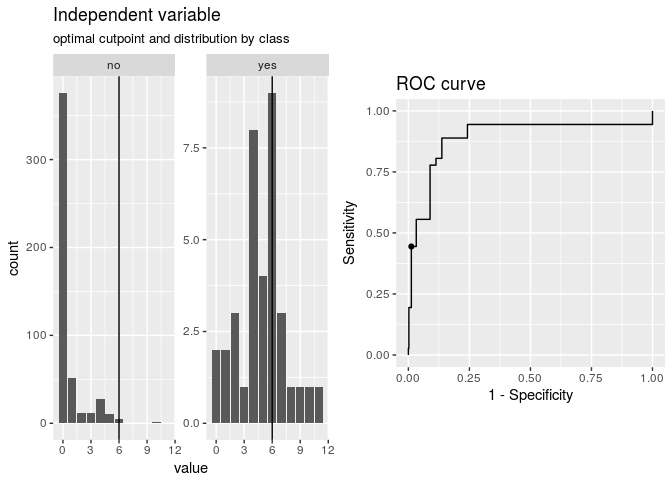
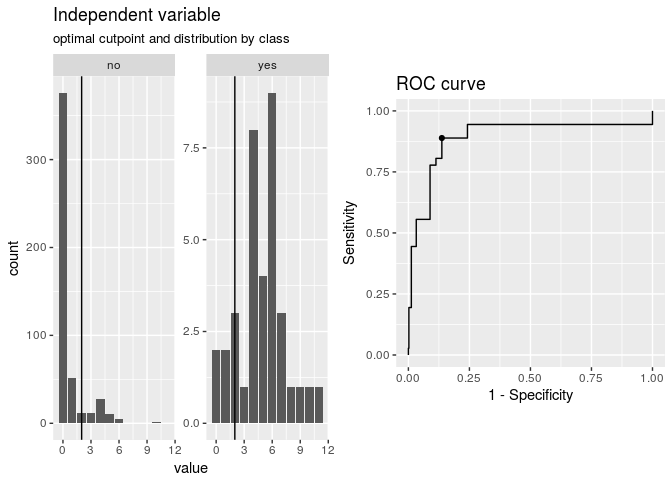
Change first example to sum_sens_spec

diff --git a/README.md b/README.md
@@ -33,7 +33,7 @@ cutpointr
 
 **cutpointr** is an R package for tidy calculation of "optimal" cutpoints. It supports several methods for calculating cutpoints and includes several metrics that can be maximized or minimized by selecting a cutpoint. Some of these methods are designed to be more robust than the simple empirical optimization of a metric. Additionally, **cutpointr** can automatically bootstrap the variability of the optimal cutpoints and return out-of-bag estimates of various performance metrics.
 
-For example, the optimal cutpoint for the included data set is 6 when maximizing accuracy.
+For example, the optimal cutpoint for the included data set is 2 when maximizing the sum of sensitivity and specificity.
 
 ``` r
 library(cutpointr)
@@ -46,20 +46,21 @@ head(suicide)
 #> 4  27 female   0      no
 #> 5  28 female   0      no
 #> 6  53   male   2      no
-cp <- cutpointr(suicide, dsi, suicide, method = maximize_metric, metric = accuracy)
+cp <- cutpointr(suicide, dsi, suicide, 
+                method = maximize_metric, metric = sum_sens_spec)
 #> Assuming the positive class is yes
 #> Assuming the positive class has higher x values
 cp
 #> # A tibble: 1 x 15
-#>   direction optimal_cutpoint method          accuracy   acc sensitivity
-#>   <chr>                <dbl> <chr>              <dbl> <dbl>       <dbl>
-#> 1 >=                      6. maximize_metric    0.951 0.951       0.444
-#>   specificity   AUC pos_class neg_class prevalence outcome predictor
-#>         <dbl> <dbl> <fct>     <fct>          <dbl> <chr>   <chr>    
-#> 1       0.988 0.924 yes       no            0.0677 suicide dsi      
-#>   data               roc_curve             
-#>   <list>             <list>                
-#> 1 <tibble [532 × 2]> <data.frame [13 × 10]>
+#>   direction optimal_cutpoint method          sum_sens_spec   acc
+#>   <chr>                <dbl> <chr>                   <dbl> <dbl>
+#> 1 >=                      2. maximize_metric          1.75 0.865
+#>   sensitivity specificity   AUC pos_class neg_class prevalence outcome
+#>         <dbl>       <dbl> <dbl> <fct>     <fct>          <dbl> <chr>  
+#> 1       0.889       0.863 0.924 yes       no            0.0677 suicide
+#>   predictor data               roc_curve             
+#>   <chr>     <list>             <list>                
+#> 1 dsi       <tibble [532 × 2]> <data.frame [13 × 10]>
 ```
 
 ``` r
@@ -69,16 +70,16 @@ summary(cp)
 #> Outcome: suicide 
 #> Direction: >= 
 #> 
-#>  optimal_cutpoint accuracy    acc sensitivity specificity    AUC n_pos
-#>                 6   0.9511 0.9511      0.4444      0.9879 0.9238    36
-#>  n_neg
-#>    496
+#>  optimal_cutpoint sum_sens_spec    acc sensitivity specificity    AUC
+#>                 2        1.7518 0.8647      0.8889      0.8629 0.9238
+#>  n_pos n_neg
+#>     36   496
 #> 
-#> Cutpoint 6:
+#> Cutpoint 2:
 #>           observation
 #> prediction yes  no
-#>        yes  16   6
-#>        no   20 490
+#>        yes  32  68
+#>        no    4 428
 #> 
 #> 
 #> Predictor summary: 
